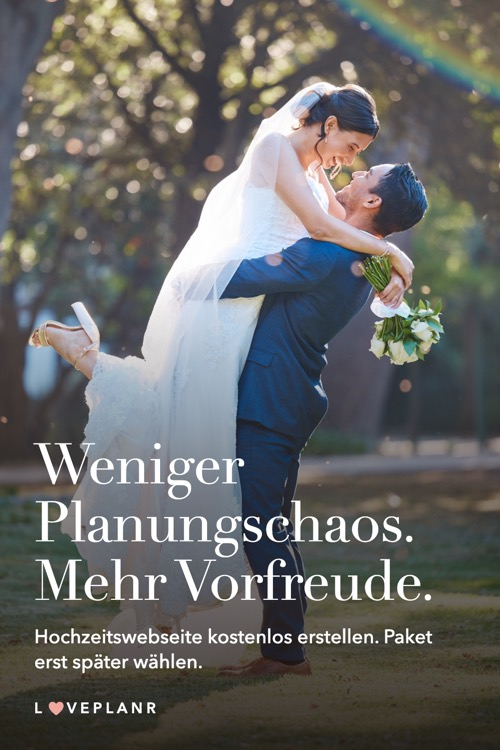
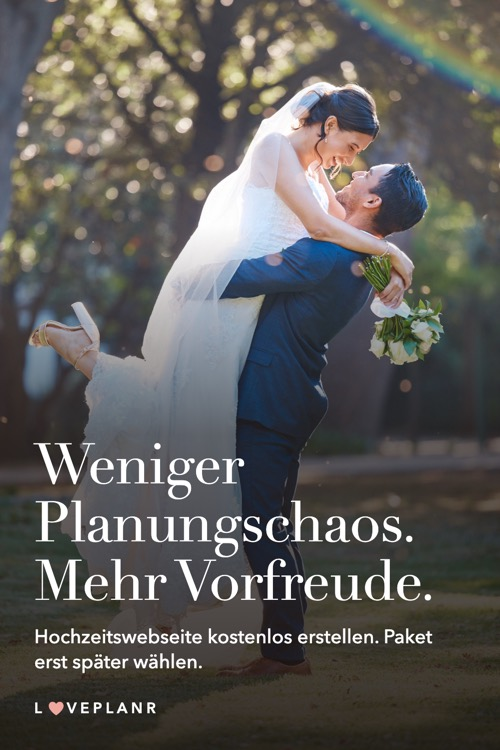
Add real couple quotes from loveplanr.com to hub pins
Prompt: «ass sie ohne Kundenaussage funktionieren und mit de, du darfst
auch kundenaussagen daraufpacken.»

Geändert:
- Pins 04 bis 06: echte Zitate wörtlich von loveplanr.com mit Paarnamen,
  Fotos als «Symbolbild» markiert, Ziele passend zum Zitat
- Website: Zitate in Bereich 8 mit Quelle, Texte zu Boards und Kalender,
  Freigabe für Pinterest als offener Punkt
- docs: Prompt-Log, AI-Fehler Nr. 9, Quellen

Changed region(s): [[0.0, 0.3373, 0.6, 0.8587], [0.54, 0.3373, 1.0, 0.7667], [0.81, 0.7973, 1.0, 0.828]]

diff --git a/index.html b/index.html
@@ -154,9 +154,9 @@
         <img class="b-img" src="assets/img/blueten.jpg" width="900" height="600" loading="lazy" alt="Stock-Foto: Lachendes Brautpaar im Regen aus roten und weissen Blütenblättern.">
         <p class="tag">Hub · Echte Geschichten</p>
         <h3>Echte Hochzeiten mit Loveplanr</h3>
-        <p>Der Beweis. Das Board startet mit Pins, die nichts über Kunden behaupten. Sobald echtes Material und Einwilligungen vorliegen, ersetzen Paar-Geschichten, Creatorinnen und Fachleute diese Startfassung.</p>
+        <p>Der Beweis: echte Aussagen von Paaren. Die Zitate stammen wörtlich von loveplanr.com, die Fotos sind als Symbolbild markiert. Längere Paar-Geschichten, Creatorinnen und Fachleute kommen dazu, sobald Material und Einwilligungen vorliegen.</p>
         <p class="pass"><strong>4 Pins:</strong> 04 bis 07</p>
-        <p class="pass"><strong>Stand:</strong> Startfassung</p>
+        <p class="pass"><strong>Stand:</strong> gestaltet, Freigabe der Zitate offen</p>
       </article>
       <article class="board b-help">
         <img class="b-img" src="assets/img/strauss.jpg" width="900" height="600" loading="lazy" alt="Stock-Foto: Braut hält einen weissen Strauss in den Händen.">
@@ -173,7 +173,7 @@
 <section class="sec tint" id="pins">
   <div class="wrap">
     <header class="head"><span class="no">4</span><div><p class="eyebrow">Pin-Set</p><h2>Zwölf Pins im Format 1000 × 1500 Pixel</h2></div></header>
-    <p class="intro">Jeder Pin hat Titel, Beschreibung, Keywords und ein Ziel. Alle sind gestaltet. Die vier Hub-Pins sind Startfassungen: Sie behaupten nichts über Kunden, denn Stock-Fotos zeigen bei uns nie angebliche Kundenpaare. Echtes Material ersetzt sie später. Pin 08 wartet auf seine Zielseite. <a href="assets/pins/pin-set.csv">Alle Pins als CSV</a> (mit UTM-Links).</p>
+    <p class="intro">Jeder Pin hat Titel, Beschreibung, Keywords und ein Ziel. Alle sind gestaltet. Die Hub-Pins tragen echte Aussagen von Paaren, wörtlich von loveplanr.com. Da die Stock-Fotos nicht diese Paare zeigen, steht auf dem Bild «Symbolbild». Pin 08 wartet auf seine Zielseite. <a href="assets/pins/pin-set.csv">Alle Pins als CSV</a> (mit UTM-Links).</p>
     <div class="wall">
       <input type="radio" name="f" id="f-all" checked><label for="f-all">Alle 12</label>
       <input type="radio" name="f" id="f-hero"><label for="f-hero">Hero 3</label>
@@ -212,35 +212,33 @@
 </details>
 </article>
 <article class="pin hub-p">
-<a class="bild" href="assets/pins/04-eure-seite.jpg" aria-label="Pin 04 in voller Grösse"><img src="assets/pins/04-eure-seite-500.jpg" width="500" height="750" loading="lazy" alt="Pin 04: Eure Bilder. Eure Worte. Eure Seite. Inhalte, Bilder und Design passt ihr an eure Hochzeit an."></a>
-<p class="pin-tag"><span>04 · Hub</span><span class="warn">Startfassung</span></p>
-<h3>Hochzeitswebseite persönlich gestalten: eure Bilder, eure Worte</h3>
+<a class="bild" href="assets/pins/04-melek-rafael.jpg" aria-label="Pin 04 in voller Grösse"><img src="assets/pins/04-melek-rafael-500.jpg" width="500" height="750" loading="lazy" alt="Pin 04: «Besonders praktisch war, dass wir unsere Gäste nicht nochmals für den Sitzplan erfassen mussten.» Melek &amp; Rafael, auf loveplanr.com"></a>
+<p class="pin-tag"><span>04 · Hub</span><span class="warn">Freigabe offen</span></p>
+<h3>Sitzplan Hochzeit: Gäste nicht nochmals erfassen, sagen Melek &amp; Rafael</h3>
 <details><summary>Beschreibung und Keywords</summary>
-<p>Wählt ein Design, ergänzt eure eigenen Bilder und Inhalte und passt die Farben an. So wird die Hochzeitswebseite zu eurer Seite. Kostenlos ausprobieren.</p>
-<p><strong>Keywords:</strong> Hochzeit Schweiz, Hochzeitswebseite gestalten, Hochzeit Ideen</p>
-<p><strong>Prinzip:</strong> Social Proof (mit echtem Paar)</p>
-<p><strong>Später:</strong> Geschichte eines echten Paars mit dessen Fotos und Einwilligung</p>
+<p>«Besonders praktisch war, dass wir unsere Gäste nicht nochmals für den Sitzplan erfassen mussten.» Melek &amp; Rafael über Loveplanr. Eure Gästeliste fliesst direkt in den Sitzplan.</p>
+<p><strong>Keywords:</strong> Sitzplan Hochzeit, Hochzeitsplanung Erfahrungen, Hochzeit Schweiz</p>
+<p><strong>Prinzip:</strong> Social Proof</p>
 </details>
 </article>
 <article class="pin hub-p">
-<a class="bild" href="assets/pins/05-so-kann-es-aussehen.jpg" aria-label="Pin 05 in voller Grösse"><img src="assets/pins/05-so-kann-es-aussehen-500.jpg" width="500" height="750" loading="lazy" alt="Pin 05: So kann eure Hochzeitsseite aussehen. Designs ansehen und das passende wählen."></a>
-<p class="pin-tag"><span>05 · Hub</span><span class="warn">Startfassung</span></p>
-<h3>Hochzeitswebseite Beispiele: Designs zum Anklicken</h3>
+<a class="bild" href="assets/pins/05-aline-josia.jpg" aria-label="Pin 05 in voller Grösse"><img src="assets/pins/05-aline-josia-500.jpg" width="500" height="750" loading="lazy" alt="Pin 05: «Die Webseite war super schnell erstellt und unsere Gäste hatten alle wichtigen Informationen an einem Ort.» Aline &amp; Josia, auf loveplanr.com"></a>
+<p class="pin-tag"><span>05 · Hub</span><span class="warn">Freigabe offen</span></p>
+<h3>Hochzeitswebseite schnell erstellt: die Erfahrung von Aline &amp; Josia</h3>
 <details><summary>Beschreibung und Keywords</summary>
-<p>Von natürlich bis modern: Schaut euch Beispiele an und entdeckt, wie eure eigene Hochzeitswebseite aussehen könnte.</p>
-<p><strong>Keywords:</strong> Hochzeitswebseite Beispiele, Hochzeitshomepage Inspiration</p>
-<p><strong>Prinzip:</strong> Social Proof (mit echtem Paar)</p>
-<p><strong>Später:</strong> Screenshot einer echten Seite mit dem Hinweis «Erstellt mit Loveplanr»</p>
+<p>«Die Webseite war super schnell erstellt und unsere Gäste hatten alle wichtigen Informationen an einem Ort.» Aline &amp; Josia über Loveplanr. Designs ansehen und kostenlos starten.</p>
+<p><strong>Keywords:</strong> Hochzeitswebseite erstellen, Hochzeitswebseite Beispiele, Hochzeitshomepage Inspiration</p>
+<p><strong>Prinzip:</strong> Social Proof</p>
 </details>
 </article>
 <article class="pin hub-p">
-<a class="bild" href="assets/pins/06-feierabend.jpg" aria-label="Pin 06 in voller Grösse"><img src="assets/pins/06-feierabend-500.jpg" width="500" height="750" loading="lazy" alt="Pin 06: Feierabend statt Excel-Abend. Webseite, Gäste und Rückmeldungen an einem Ort."></a>
+<a class="bild" href="assets/pins/06-feierabend.jpg" aria-label="Pin 06 in voller Grösse"><img src="assets/pins/06-feierabend-500.jpg" width="500" height="750" loading="lazy" alt="Pin 06: Feierabend statt Excel-Abend. «Wir hatten Gästeliste, Sitzplan und Einladungen endlich an einem Ort.» Sabine &amp; Markus, auf loveplanr.com"></a>
 <p class="pin-tag"><span>06 · Hub</span><span class="warn">Startfassung</span></p>
 <h3>Hochzeit planen ohne Excel: Webseite und Gäste an einem Ort</h3>
 <details><summary>Beschreibung und Keywords</summary>
-<p>Webseite, Gästeliste und Rückmeldungen liegen an einem Ort. So bleibt nach der Arbeit mehr Zeit für alles andere als für Tabellen.</p>
+<p>«Wir hatten Gästeliste, Sitzplan und Einladungen endlich an einem Ort.» Sabine &amp; Markus über Loveplanr. So bleibt nach der Arbeit mehr Zeit für alles andere als für Tabellen.</p>
 <p><strong>Keywords:</strong> Hochzeit planen, Hochzeitsvorbereitung, Hochzeitsplanung Tools</p>
-<p><strong>Prinzip:</strong> Liking (mit Creatorin)</p>
+<p><strong>Prinzip:</strong> Social Proof, später Liking (mit Creatorin)</p>
 <p><strong>Später:</strong> Video-Pin einer Micro-Creatorin aus der Deutschschweiz, als Partnerschaft gekennzeichnet</p>
 </details>
 </article>
@@ -342,7 +340,7 @@
 <section class="sec tint" id="kalender">
   <div class="wrap">
     <header class="head"><span class="no">6</span><div><p class="eyebrow">Content-Kalender</p><h2>Acht Wochen: erst helfen, dann lancieren, dann testen</h2></div></header>
-    <p class="intro">Woche 1 beginnt, sobald die Gründer den Start festlegen. Die Hub-Pins starten als Startfassung, Paar-Geschichten und Empfehlungen ersetzen sie, sobald echtes Material vorliegt.</p>
+    <p class="intro">Woche 1 beginnt, sobald die Gründer den Start festlegen. Paar-Geschichten und Empfehlungen ergänzen die Hub-Pins, sobald echtes Material vorliegt.</p>
     <table class="tbl cal">
       <thead><tr><th scope="col">Woche</th><th scope="col">Pins</th><th scope="col">Aufgabe</th><th scope="col">Danach prüfen</th></tr></thead>
       <tbody>
@@ -350,8 +348,8 @@
         <tr><th scope="row">2</th><td data-l="Pins">11 Sitzplan · 12 Onkel Peter</td><td data-l="Aufgabe">Help-Board vervollständigen</td><td data-l="Prüfen">Erste Impressions pro Keyword-Gruppe</td></tr>
         <tr><th scope="row">3</th><td data-l="Pins">01 Einmal Ja · 02 Einmal reicht</td><td data-l="Aufgabe">Launch der Kampagnenidee</td><td data-l="Prüfen">Saves und Klicks gegenüber Help-Pins</td></tr>
         <tr><th scope="row">4</th><td data-l="Pins">03 Mehr Vorfreude</td><td data-l="Aufgabe">Direkter Weg zur kostenlosen Anmeldung</td><td data-l="Prüfen">Basiswerte festhalten, Ziele mit den Gründern setzen</td></tr>
-        <tr class="hi"><th scope="row">5</th><td data-l="Pins">08 Checkliste · 04 Eure Seite</td><td data-l="Aufgabe">Start Promoted-Test, Checklisten-Zielseite live</td><td data-l="Prüfen">Erste Anmeldungen, Ausgaben pro Variante</td></tr>
-        <tr class="hi"><th scope="row">6</th><td data-l="Pins">05 So kann es aussehen</td><td data-l="Aufgabe">Promoted-Test läuft weiter</td><td data-l="Prüfen">Testende, Kosten pro Klick je Variante</td></tr>
+        <tr class="hi"><th scope="row">5</th><td data-l="Pins">08 Checkliste · 04 Melek &amp; Rafael</td><td data-l="Aufgabe">Start Promoted-Test, Checklisten-Zielseite live</td><td data-l="Prüfen">Erste Anmeldungen, Ausgaben pro Variante</td></tr>
+        <tr class="hi"><th scope="row">6</th><td data-l="Pins">05 Aline &amp; Josia</td><td data-l="Aufgabe">Promoted-Test läuft weiter</td><td data-l="Prüfen">Testende, Kosten pro Klick je Variante</td></tr>
         <tr><th scope="row">7</th><td data-l="Pins">06 Feierabend · 07 Partner</td><td data-l="Aufgabe">Creatorin und Hochzeitsplanerin für die echte Fassung anfragen</td><td data-l="Prüfen">Welche Hub-Themen werden gespeichert?</td></tr>
         <tr><th scope="row">8</th><td data-l="Pins">Beste Pins neu gestaltet</td><td data-l="Aufgabe">Auswertung, gute Pins für Instagram wiederverwenden</td><td data-l="Prüfen">Was bleibt, was fällt weg, wie weiter?</td></tr>
       </tbody>
@@ -398,8 +396,8 @@
 <tr><th scope="row">01 Einmal Ja. Einmal zahlen.</th><td data-l="Ziel"><a href="https://loveplanr.com/preise/">/preise/</a></td><td data-l="Danach">Pakete vergleichen, dann kostenlos starten</td><td data-l="Stand" class="state">Bereit</td></tr>
 <tr><th scope="row">02 Einmal reicht.</th><td data-l="Ziel"><a href="https://loveplanr.com/komplettpaket/">/komplettpaket/</a></td><td data-l="Danach">Komplettpaket verstehen, dann kostenlos starten</td><td data-l="Stand" class="state">Bereit</td></tr>
 <tr><th scope="row">03 Weniger Planungschaos. Mehr Vorfreude.</th><td data-l="Ziel"><a href="https://app.loveplanr.com/de/sign-up">app.loveplanr.com/de/sign-up</a></td><td data-l="Danach">Konto erstellen und die Seite kostenlos bauen</td><td data-l="Stand" class="state">Bereit</td></tr>
-<tr><th scope="row">04 Eure Bilder. Eure Worte. Eure Seite.</th><td data-l="Ziel"><a href="https://loveplanr.com/hochzeitswebsite-beispiele/">/hochzeitswebsite-beispiele/</a></td><td data-l="Danach">Design-Beispiele ansehen, dann kostenlos starten</td><td data-l="Stand" class="state">Startfassung</td></tr>
-<tr><th scope="row">05 So kann eure Hochzeitsseite aussehen.</th><td data-l="Ziel"><a href="https://loveplanr.com/hochzeitswebsite-beispiele/">/hochzeitswebsite-beispiele/</a></td><td data-l="Danach">Design wählen, dann kostenlos starten</td><td data-l="Stand" class="state">Startfassung</td></tr>
+<tr><th scope="row">04 «Besonders praktisch war, dass wir unsere Gäste nicht nochmals für den Sitzplan erfassen mussten.»</th><td data-l="Ziel"><a href="https://loveplanr.com/sitzplan/">/sitzplan/</a></td><td data-l="Danach">Sitzplan verstehen, Komplettpaket prüfen</td><td data-l="Stand" class="state"><span class="state-p">Zitat: Freigabe offen</span></td></tr>
+<tr><th scope="row">05 «Die Webseite war super schnell erstellt und unsere Gäste hatten alle wichtigen Informationen an einem Ort.»</th><td data-l="Ziel"><a href="https://loveplanr.com/hochzeitswebsite/">/hochzeitswebsite/</a></td><td data-l="Danach">Funktionen ansehen, dann kostenlos starten</td><td data-l="Stand" class="state"><span class="state-p">Zitat: Freigabe offen</span></td></tr>
 <tr><th scope="row">06 Feierabend statt Excel-Abend.</th><td data-l="Ziel"><a href="https://loveplanr.com/hochzeitswebsite/">/hochzeitswebsite/</a></td><td data-l="Danach">Funktionen ansehen, dann kostenlos starten</td><td data-l="Stand" class="state">Startfassung</td></tr>
 <tr><th scope="row">07 Gute Partner für euren grossen Tag</th><td data-l="Ziel"><a href="https://loveplanr.com/partner/">/partner/</a></td><td data-l="Danach">Partner ansehen, Vertrauen aufbauen</td><td data-l="Stand" class="state">Startfassung</td></tr>
 <tr><th scope="row">08 Gratis Hochzeits-Checkliste</th><td data-l="Ziel"><a href="https://loveplanr.com/hochzeitscheckliste/">/hochzeitscheckliste/</a></td><td data-l="Danach">E-Mail-Adresse angeben, Checkliste erhalten</td><td data-l="Stand" class="state"><span class="state-p">Vorschlag: neue Zielseite</span></td></tr>
@@ -424,9 +422,16 @@
     <div class="prinz">
       <article><img src="assets/pins/08-gratis-checkliste-500.jpg" width="500" height="750" loading="lazy" alt="Pin 08: Gratis Hochzeits-Checkliste."><div><h3>Reciprocity</h3><p>Paare bekommen zuerst etwas Nützliches und geben danach ihre E-Mail-Adresse.</p><p class="wo">Pin 08, neue Zielseite als Vorschlag</p></div></article>
       <article><img src="assets/pins/03-mehr-vorfreude-500.jpg" width="500" height="750" loading="lazy" alt="Pin 03: Weniger Planungschaos. Mehr Vorfreude."><div><h3>Commitment &amp; Consistency</h3><p>Wer die eigene Seite schon gebaut hat, bleibt eher dabei. Darum zuerst kostenlos erstellen und testen, das Paket erst später wählen.</p><p class="wo">Pin 03, Wortlaut von Loveplanr</p></div></article>
-      <article><img src="assets/pins/05-so-kann-es-aussehen-500.jpg" width="500" height="750" loading="lazy" alt="Pin 05: So kann eure Hochzeitsseite aussehen."><div><h3>Social Proof</h3><p>Paare orientieren sich an anderen Paaren. Das wirkt nur mit echten Geschichten und dem Hinweis «Erstellt mit Loveplanr». Bis dahin zeigen die Pins Designs, ohne Kunden zu behaupten.</p><p class="wo">Pins 04 und 05, Startfassung</p></div></article>
+      <article><img src="assets/pins/04-melek-rafael-500.jpg" width="500" height="750" loading="lazy" alt="Pin 04: Zitat von Melek und Rafael, mit Symbolbild."><div><h3>Social Proof</h3><p>Paare orientieren sich an anderen Paaren. Darum stehen echte Aussagen auf den Pins. Später kommen ganze Geschichten mit dem Hinweis «Erstellt mit Loveplanr» dazu.</p><p class="wo">Pins 04, 05 und 06, Zitate von loveplanr.com</p></div></article>
       <article><img src="assets/pins/07-partner-500.jpg" width="500" height="750" loading="lazy" alt="Pin 07: Gute Partner für euren grossen Tag."><div><h3>Authority</h3><p>Das Urteil einer Hochzeitsplanerin oder eines Hochzeitsmagazins wiegt mehr als eigene Werbung. Bis zur ersten Zusage verweist der Pin auf die Partner von Loveplanr.</p><p class="wo">Pin 07, Startfassung</p></div></article>
       <article><img src="assets/pins/06-feierabend-500.jpg" width="500" height="750" loading="lazy" alt="Pin 06: Feierabend statt Excel-Abend."><div><h3>Liking</h3><p>Eine Micro- oder Nano-Creatorin aus der Deutschschweiz zeigt die eigene Planung im Video-Pin, als bezahlte Partnerschaft gekennzeichnet. Bis dahin trägt ein Motiv mit Augenzwinkern den Pin.</p><p class="wo">Pin 06, Startfassung</p></div></article>
+    </div>
+    <div class="stimmen">
+      <h3>Die Aussagen auf den Pins</h3>
+      <blockquote><p>«Besonders praktisch war, dass wir unsere Gäste nicht nochmals für den Sitzplan erfassen mussten.»</p><footer>Melek &amp; Rafael</footer></blockquote>
+      <blockquote><p>«Die Webseite war super schnell erstellt und unsere Gäste hatten alle wichtigen Informationen an einem Ort.»</p><footer>Aline &amp; Josia</footer></blockquote>
+      <blockquote><p>«Wir hatten Gästeliste, Sitzplan und Einladungen endlich an einem Ort.»</p><footer>Sabine &amp; Markus</footer></blockquote>
+      <p class="quelle">Wörtlich von <a href="https://loveplanr.com/">loveplanr.com</a>, abgerufen am 05.11.2026. Nicht von uns erhoben. Die Fotos auf den Pins zeigen nicht diese Paare.</p>
     </div>
     <div class="nein">
       <article><h3><s>Scarcity</s></h3><p>Pins leben über Monate. «Nur noch heute» wäre bald falsch und passt nicht zu einem festen Einmalpreis.</p></article>
@@ -449,10 +454,10 @@
     </div>
     <h3>Offen für die Gründer</h3>
     <ul class="offen">
-      <li>Echte Paar-Geschichten, Screenshots und Einwilligungen für die Hub-Pins</li>
+      <li>Längere Paar-Geschichten, Screenshots und Einwilligungen für weitere Hub-Pins</li>
       <li>Originallogo und exakte Farbwerte</li>
       <li>Bestätigung der Preise in CHF und der Aussage zu Rückmeldungen ohne Konto</li>
-      <li>Ob «10'000+ Hochzeitspaare» und die Paarzitate übernommen werden dürfen</li>
+      <li>Ob die Paarzitate auch auf Pinterest erscheinen dürfen, und ob «10'000+ Hochzeitspaare» übernommen wird</li>
       <li>Zielseite für die Gratis-Checkliste</li>
       <li>Startdatum, Budget für den Test und Weitergabe der UTM-Werte bis zum Kauf</li>
     </ul>
@@ -464,7 +469,7 @@
 <footer class="foot">
   <div class="wrap">
     <p><strong>Studentisches Projekt.</strong> Kurs «Digital Marketing for Start-ups», ZHAW, HS 2026, Team 4. Kein offizieller Auftritt von Loveplanr.</p>
-    <p>Fotos: Stock-Motive, über Envato lizenziert. Sie zeigen keine Kundenpaare. Die Wortmarke auf den Pins ist eine Rekonstruktion, bis das Originallogo vorliegt. Laura, Marco und Peter sind fiktive Personas. Produktangaben von <a href="https://loveplanr.com">loveplanr.com</a>, geprüft am 05.11.2026.</p>
+    <p>Fotos: Stock-Motive, über Envato lizenziert. Sie zeigen keine Kundenpaare, auch nicht auf den Pins mit Zitaten. Die Wortmarke auf den Pins ist eine Rekonstruktion, bis das Originallogo vorliegt. Laura, Marco und Peter sind fiktive Personas. Produktangaben von <a href="https://loveplanr.com">loveplanr.com</a>, geprüft am 05.11.2026.</p>
   </div>
 </footer>
 </body>

diff --git a/assets/site.css b/assets/site.css
@@ -152,6 +152,12 @@ code{font-size:.85em;background:var(--sand);padding:.1em .3em;overflow-wrap:anyw
 .prinz h3{font-size:1.5rem}
 .prinz p{font-size:.97rem;margin-bottom:.6rem}
 .wo{font-weight:600;font-size:.86rem!important;color:var(--rose-d);margin:0!important}
+.stimmen{display:grid;grid-template-columns:repeat(3,1fr);gap:1.2rem;margin-top:clamp(2rem,4vw,3rem)}
+.stimmen h3,.stimmen .quelle{grid-column:1/-1;margin:0}
+.stimmen .quelle{font-size:.9rem;color:var(--muted)}
+.stimmen blockquote{margin:0;padding:1.3rem;background:var(--ink);color:var(--paper)}
+.stimmen blockquote p{font:400 1.32rem/1.28 var(--serif);margin-bottom:.8rem}
+.stimmen footer{font-size:.9rem;font-weight:600;color:#f0a79e}
 .nein{display:grid;grid-template-columns:1fr 1fr;gap:1.2rem;margin-top:1.2rem}
 .nein article{padding:1.2rem 1.3rem;border:1.5px dashed var(--muted)}
 .nein s{text-decoration-color:var(--rose-d);text-decoration-thickness:2px}
@@ -193,7 +199,7 @@ code{font-size:.85em;background:var(--sand);padding:.1em .3em;overflow-wrap:anyw
   .hero{min-height:min(88svh,740px);justify-content:flex-end}
   .hero>img{height:66%;object-position:54% 15%}
   .hero::after{background:linear-gradient(0deg,#262626 40%,rgba(38,38,38,.75) 52%,rgba(38,38,38,0) 66%)}
-  .trio,.cols,.personas,.notes,.nein,.test{grid-template-columns:1fr}
+  .trio,.cols,.personas,.notes,.nein,.test,.stimmen{grid-template-columns:1fr}
   .test .plain,.offen{columns:1}
   .fenster{font-size:.88rem;padding:.35rem .6rem}
   .pins{grid-template-columns:1fr 1fr;gap:1.1rem .8rem}

diff --git a/tools/pins_data.py b/tools/pins_data.py
@@ -17,21 +17,21 @@ PINS = [
   title="Hochzeitswebseite kostenlos erstellen, Paket erst später wählen",
   desc="Startet mit eurer Hochzeitswebseite und testet alle Funktionen in Ruhe. Erst wenn ihr bereit seid, wählt ihr das passende Paket. Einmalig bezahlt, ohne Abo.",
   kw="Hochzeitswebseite erstellen, Hochzeitshomepage, Hochzeit Ideen", path="https://app.loveplanr.com/de/sign-up", principle="Commitment & Consistency", status=""),
- dict(id="04-eure-seite", board="Hub", layout="photo", photo="happy-couple-celebrate-wedding-with-red-white-pet-2026-09-25-08-44-30-utc.jpg", pos="34% 50%", place="bottom",
-  head="Eure Bilder.<br>Eure Worte.<br>Eure Seite.", sub="Inhalte, Bilder und Design passt ihr an eure Hochzeit an.",
-  title="Hochzeitswebseite persönlich gestalten: eure Bilder, eure Worte",
-  desc="Wählt ein Design, ergänzt eure eigenen Bilder und Inhalte und passt die Farben an. So wird die Hochzeitswebseite zu eurer Seite. Kostenlos ausprobieren.",
-  kw="Hochzeit Schweiz, Hochzeitswebseite gestalten, Hochzeit Ideen", path="/hochzeitswebsite-beispiele/", principle="Social Proof (mit echtem Paar)", status="Startfassung: echtes Material ersetzt sie später", later="Geschichte eines echten Paars mit dessen Fotos und Einwilligung"),
- dict(id="05-so-kann-es-aussehen", board="Hub", layout="photo", photo="happy-couple-at-wedding-ceremony-in-outdoor-settin-2026-09-23-04-01-19-utc.jpg", pos="50% 30%", place="bottom",
-  head="So kann eure Hochzeitsseite aussehen.", sub="Designs ansehen und das passende wählen.",
-  title="Hochzeitswebseite Beispiele: Designs zum Anklicken",
-  desc="Von natürlich bis modern: Schaut euch Beispiele an und entdeckt, wie eure eigene Hochzeitswebseite aussehen könnte.",
-  kw="Hochzeitswebseite Beispiele, Hochzeitshomepage Inspiration", path="/hochzeitswebsite-beispiele/", principle="Social Proof (mit echtem Paar)", status="Startfassung: echtes Material ersetzt sie später", later="Screenshot einer echten Seite mit dem Hinweis «Erstellt mit Loveplanr»"),
- dict(id="06-feierabend", board="Hub", layout="photo", photo="bride-and-groom-posing-with-luggage-cart-2026-09-24-04-02-31-utc.jpg", pos="72% 50%", place="bottom",
-  head="Feierabend statt Excel-Abend.", sub="Webseite, Gäste und Rückmeldungen an einem Ort.",
+ dict(id="04-melek-rafael", board="Hub", layout="photo", photo="happy-couple-celebrate-wedding-with-red-white-pet-2026-09-25-08-44-30-utc.jpg", pos="34% 50%", place="bottom", symbol=True, hsize=70,
+  head="«Besonders praktisch war, dass wir unsere Gäste nicht nochmals für den Sitzplan erfassen mussten.»", sub="Melek & Rafael, auf loveplanr.com",
+  title="Sitzplan Hochzeit: Gäste nicht nochmals erfassen, sagen Melek & Rafael",
+  desc="«Besonders praktisch war, dass wir unsere Gäste nicht nochmals für den Sitzplan erfassen mussten.» Melek & Rafael über Loveplanr. Eure Gästeliste fliesst direkt in den Sitzplan.",
+  kw="Sitzplan Hochzeit, Hochzeitsplanung Erfahrungen, Hochzeit Schweiz", path="/sitzplan/", principle="Social Proof", status="Freigabe offen: Zitat von loveplanr.com für Pinterest bestätigen"),
+ dict(id="05-aline-josia", board="Hub", layout="photo", photo="happy-couple-at-wedding-ceremony-in-outdoor-settin-2026-09-23-04-01-19-utc.jpg", pos="50% 30%", place="bottom", symbol=True, hsize=70,
+  head="«Die Webseite war super schnell erstellt und unsere Gäste hatten alle wichtigen Informationen an einem Ort.»", sub="Aline & Josia, auf loveplanr.com",
+  title="Hochzeitswebseite schnell erstellt: die Erfahrung von Aline & Josia",
+  desc="«Die Webseite war super schnell erstellt und unsere Gäste hatten alle wichtigen Informationen an einem Ort.» Aline & Josia über Loveplanr. Designs ansehen und kostenlos starten.",
+  kw="Hochzeitswebseite erstellen, Hochzeitswebseite Beispiele, Hochzeitshomepage Inspiration", path="/hochzeitswebsite/", principle="Social Proof", status="Freigabe offen: Zitat von loveplanr.com für Pinterest bestätigen"),
+ dict(id="06-feierabend", board="Hub", layout="photo", photo="bride-and-groom-posing-with-luggage-cart-2026-09-24-04-02-31-utc.jpg", pos="72% 50%", place="bottom", symbol=True,
+  head="Feierabend statt Excel-Abend.", sub="«Wir hatten Gästeliste, Sitzplan und Einladungen endlich an einem Ort.»<br>Sabine & Markus, auf loveplanr.com",
   title="Hochzeit planen ohne Excel: Webseite und Gäste an einem Ort",
-  desc="Webseite, Gästeliste und Rückmeldungen liegen an einem Ort. So bleibt nach der Arbeit mehr Zeit für alles andere als für Tabellen.",
-  kw="Hochzeit planen, Hochzeitsvorbereitung, Hochzeitsplanung Tools", path="/hochzeitswebsite/", principle="Liking (mit Creatorin)", status="Startfassung: echtes Material ersetzt sie später", later="Video-Pin einer Micro-Creatorin aus der Deutschschweiz, als Partnerschaft gekennzeichnet"),
+  desc="«Wir hatten Gästeliste, Sitzplan und Einladungen endlich an einem Ort.» Sabine & Markus über Loveplanr. So bleibt nach der Arbeit mehr Zeit für alles andere als für Tabellen.",
+  kw="Hochzeit planen, Hochzeitsvorbereitung, Hochzeitsplanung Tools", path="/hochzeitswebsite/", principle="Social Proof, später Liking (mit Creatorin)", status="Startfassung: echtes Material ersetzt sie später", later="Video-Pin einer Micro-Creatorin aus der Deutschschweiz, als Partnerschaft gekennzeichnet"),
  dict(id="07-partner", board="Hub", layout="split", photo="elegant-wedding-day-for-groom-and-bride-2026-09-23-11-00-18-utc.jpg", pos="50% 50%", color="sand",
   head="Gute Partner für euren grossen Tag", sub="Ausgewählte Dienstleister, von Karten bis Location.",
   title="Hochzeit Dienstleister: ausgewählte Partner für euren grossen Tag",

diff --git a/tools/make_pins.py b/tools/make_pins.py
@@ -16,7 +16,7 @@ h1{font-family:Didot,"Bodoni 72",Georgia,serif;font-weight:400;line-height:1.04;
 .sub{font-size:39px;line-height:1.28;font-weight:500}
 img.bg{position:absolute;inset:0;width:100%;height:100%;object-fit:cover}
 .photo .shade{position:absolute;inset:0}.photo.top .shade{background:linear-gradient(180deg,rgba(25,18,16,.68),rgba(25,18,16,.12) 52%,rgba(25,18,16,.5))}
-.photo.bottom .shade{background:linear-gradient(0deg,rgba(25,18,16,.86),rgba(25,18,16,.5) 34%,rgba(25,18,16,0) 62%)}
+.photo.bottom .shade{background:linear-gradient(0deg,rgba(25,18,16,.88),rgba(25,18,16,.62) 42%,rgba(25,18,16,0) 70%)}
 .photo .txt{position:absolute;left:68px;right:68px;color:#fff}.photo.top .txt{top:90px}.photo.bottom .txt{bottom:150px}
 .photo h1{font-size:112px;margin-bottom:28px}.photo .logo{position:absolute;left:68px;bottom:62px;color:#fff}.photo .h{color:#f0a79e}
 .split .pic{position:absolute;inset:0 0 auto 0;height:840px;overflow:hidden}.split .pic img{width:100%;height:100%;object-fit:cover;display:block}
@@ -26,13 +26,16 @@ img.bg{position:absolute;inset:0;width:100%;height:100%;object-fit:cover}
 .list .block{position:absolute;inset:430px 0 0 0;padding:56px 68px;background:#fff6f3}.list h1{font-size:84px;margin-bottom:38px}
 .list ol{list-style:none;padding:0}.list li{font-size:42px;font-weight:500;display:flex;align-items:center;gap:30px;padding:17px 0;border-top:2px solid #e8d8d2}
 .list b{font:400 58px Didot,Georgia,serif;color:#db7f74;width:48px}.list .logo{position:absolute;left:68px;bottom:50px}
+.sym{position:absolute;top:36px;right:36px;font-size:24px;font-weight:600;letter-spacing:.04em;color:#fff;background:rgba(25,18,16,.6);padding:7px 14px}
 .stamp{position:absolute;right:68px;bottom:44px;width:128px;height:128px;border-radius:50%;display:flex;align-items:center;justify-content:center;font:400 68px Didot,Georgia,serif;background:#fff6f3;color:#262626;box-shadow:0 0 0 3px #fff6f3,0 0 0 6px #db7f74}
 """
 def stamp(p): return '<div class="stamp">1×</div>' if p.get("stamp") else ""
+def sym(p): return '<div class="sym">Symbolbild</div>' if p.get("symbol") else ""
+def hs(p): return f' style="font-size:{p["hsize"]}px;line-height:1.14"' if p.get("hsize") else ""
 def body(p, photo):
     e = lambda s: s  # Inhalte stammen aus pins_data.py und enthalten bewusst <br>
     if p["layout"] == "photo":
-        return f'<body class="photo {p["place"]}"><img class="bg" src="{photo}" style="object-position:{p["pos"]}"><div class="shade"></div><div class="txt"><h1>{e(p["head"])}</h1><p class="sub">{e(p["sub"])}</p></div>{LOGO}{stamp(p)}</body>'
+        return f'<body class="photo {p["place"]}"><img class="bg" src="{photo}" style="object-position:{p["pos"]}"><div class="shade"></div><div class="txt"><h1{hs(p)}>{e(p["head"])}</h1><p class="sub">{e(p["sub"])}</p></div>{LOGO}{stamp(p)}{sym(p)}</body>'
     if p["layout"] == "split":
         return f'<body class="split {p["color"]}"><div class="pic"><img src="{photo}" style="object-position:{p["pos"]}"></div><div class="block"><h1>{e(p["head"])}</h1><p class="sub">{e(p["sub"])}</p>{LOGO}{stamp(p)}</div></body>'
     if p["layout"] == "list":

diff --git a/tools/build_site.py b/tools/build_site.py
@@ -11,8 +11,8 @@ NEXT = {
     "01-einmal-ja": "Pakete vergleichen, dann kostenlos starten",
     "02-einmal-reicht": "Komplettpaket verstehen, dann kostenlos starten",
     "03-mehr-vorfreude": "Konto erstellen und die Seite kostenlos bauen",
-    "04-eure-seite": "Design-Beispiele ansehen, dann kostenlos starten",
-    "05-so-kann-es-aussehen": "Design wählen, dann kostenlos starten",
+    "04-melek-rafael": "Sitzplan verstehen, Komplettpaket prüfen",
+    "05-aline-josia": "Funktionen ansehen, dann kostenlos starten",
     "06-feierabend": "Funktionen ansehen, dann kostenlos starten",
     "07-partner": "Partner ansehen, Vertrauen aufbauen",
     "08-gratis-checkliste": "E-Mail-Adresse angeben, Checkliste erhalten",
@@ -52,6 +52,7 @@ def row(p):
     u = url(p)
     shown = u.replace("https://", "").replace("loveplanr.com", "", 1) if not "app." in u else u.replace("https://", "")
     if p["status"].startswith("Startfassung"): state = "Startfassung"
+    elif p["status"].startswith("Freigabe"): state = '<span class="state-p">Zitat: Freigabe offen</span>'
     elif p["status"]: state = '<span class="state-p">Vorschlag: neue Zielseite</span>'
     else: state = "Bereit"
     return (f'<tr><th scope="row">{p["id"][:2]} {esc(plain(p["head"]))}</th>'

diff --git a/docs/prompt-log.md b/docs/prompt-log.md
@@ -35,12 +35,14 @@ Team selbst, ohne KI. Es gehört nicht zu diesem Log.
 
 | Nr. | Prompt | Was passierte | Commit |
 |---|---|---|---|
-| 20 | «gib den Startschuss, halte dich an alle Vorgaben wie besprochen und sei vor allem kreativ bei der Umsatzung. Alles muss dokumentiert werden.» | Kampagnenidee «Einmal reicht.» entwickelt, zwölf Pins als Daten, Generator und Bilder erstellt, erster Render. | dieser Commit |
+| 20 | «gib den Startschuss, halte dich an alle Vorgaben wie besprochen und sei vor allem kreativ bei der Umsatzung. Alles muss dokumentiert werden.» | Kampagnenidee «Einmal reicht.» entwickelt, zwölf Pins als Daten, Generator und Bilder erstellt, erster Render. | `eb50468` |
 | 21 | «Speichere den Stand unter "LOVE" ich werde jetzt den Laptop in den sleep modus umstellen und will das du in der zwischnzeit weiterarbeitest. Geht das?» | Stand gespeichert. Antwort: Im Ruhezustand läuft die Arbeit nicht weiter. | – |
 | 22 | «ich mache morgen weiter» | Keine Arbeit im Hintergrund. | – |
-| 23 | «let's go we are back» | Pins visuell geprüft und korrigiert, Website mit acht Bereichen gebaut, auf Desktop und Handy geprüft, Dokumentation geschrieben, veröffentlicht. | dieser Commit |
+| 23 | «let's go we are back» | Pins visuell geprüft und korrigiert, Website mit acht Bereichen gebaut, auf Desktop und Handy geprüft, Dokumentation geschrieben, veröffentlicht. | `eb50468` |
 
-| 24 | «[12 Fotos] Hier hat es noch mehr fotos, du hast zu viele Placeholder verwendet» | Die vier Hub-Pins neu geschrieben und mit den neuen Fotos gestaltet. Sie behaupten nichts über Kunden und laufen als Startfassung, bis echtes Material vorliegt. Pins 09 und 10 mit passenderen Fotos, neue Fotos auf der Website bei Boards, Personas und in einem Bildstreifen. | dieser Commit |
+| 24 | «[12 Fotos] Hier hat es noch mehr fotos, du hast zu viele Placeholder verwendet» | Die vier Hub-Pins neu geschrieben und mit den neuen Fotos gestaltet. Sie behaupten nichts über Kunden und laufen als Startfassung, bis echtes Material vorliegt. Pins 09 und 10 mit passenderen Fotos, neue Fotos auf der Website bei Boards, Personas und in einem Bildstreifen. | `d007ae1` |
+
+| 25 | «ass sie ohne Kundenaussage funktionieren und mit de, du darfst auch kundenaussagen daraufpacken.» (nimmt Bezug auf eine Zwischennachricht der KI) | Echte Zitate wörtlich von loveplanr.com geholt und auf die Pins 04, 05 und 06 gesetzt, Fotos dort als «Symbolbild» markiert. Die Zitate stehen auch im Bereich 8 der Website. | dieser Commit |
 
 Die Prompts 20 bis 23 gehören zur selben Iteration, weil der Bau über Nacht unterbrochen wurde. Darum gibt es dafür einen gemeinsamen Commit.
 
@@ -49,7 +51,7 @@ Die Prompts 20 bis 23 gehören zur selben Iteration, weil der Bau über Nacht un
 «Sei kreativ» legte die Idee nicht fest. Diese Entscheide traf die KI selbst. Das Team sollte sie prüfen:
 
 - Leitidee «Einmal reicht.» mit dem Motiv 1×, aus dem USP «einmaliger Preis» abgeleitet.
-- Hub-Pins waren zuerst sichtbare Platzhalter, damit Stock-Fotos nicht als Paargeschichten erscheinen. Der Nutzer korrigierte das mit Prompt 24: Sie sind nun gestaltete Startfassungen ohne Kundenaussage.
+- Hub-Pins waren zuerst sichtbare Platzhalter, damit Stock-Fotos nicht als Paargeschichten erscheinen. Der Nutzer korrigierte das mit Prompt 24: Sie sind nun gestaltet, die Pins 04 bis 06 tragen seit Prompt 25 echte Zitate.
 - Help-Pins erscheinen im Kalender vor den Hero-Pins.
 - Der Promoted-Test vergleicht Preis gegen Hilfe, mit einer Nachfrist von vier Wochen für den Kauf. Die Nachfrist ist ein Vorschlag, kein Erfahrungswert.
 - Die Geschichte «Ein Abend im Planungsfenster» ordnet die KPIs den Schritten eines fiktiven Paars zu.

diff --git a/docs/quellen-und-platzhalter.md b/docs/quellen-und-platzhalter.md
@@ -23,26 +23,33 @@
 - Zielwert Kosten pro Kunde ≤ 20–30 CHF (für die Website freigegeben). Weitere Zahlen aus dem Businessplan bleiben privat.
 - Die Schweiz als Werbemarkt stammt aus einer älteren Pinterest-Hilfeseite und ist im Ads Manager zu prüfen.
 
+## Zitate auf den Pins
+
+Alle Zitate stammen wörtlich von https://loveplanr.com/ und https://loveplanr.com/hochzeitswebsite/ (abgerufen am 05.11.2026). Der Nutzer hat ihre Verwendung freigegeben. Offen bleibt, ob die Gründer und die Paare auch dem Einsatz auf Pinterest zustimmen. Das ist vor dem Hochladen zu klären. Die Stock-Fotos zeigen nicht diese Paare und tragen darum den Hinweis «Symbolbild».
+
+| Pin | Zitat | Paar |
+|---|---|---|
+| 04 | «Besonders praktisch war, dass wir unsere Gäste nicht nochmals für den Sitzplan erfassen mussten.» | Melek & Rafael |
+| 05 | «Die Webseite war super schnell erstellt und unsere Gäste hatten alle wichtigen Informationen an einem Ort.» | Aline & Josia |
+| 06 | «Wir hatten Gästeliste, Sitzplan und Einladungen endlich an einem Ort.» | Sabine & Markus |
+
 ## Startfassungen und Vorschläge
 
-Es gibt keine leeren Platzhalter-Pins mehr. Die Hub-Pins sind Startfassungen: Sie zeigen Stock-Fotos und behaupten nichts über Kunden. Social Proof, Authority und Liking wirken aber erst mit dem echten Material in dieser Tabelle.
-
-| Element | Startfassung | Was sie später ersetzt | Von wem |
+| Element | Heute | Später | Von wem |
 |---|---|---|---|
-| Pin 04 | «Eure Bilder. Eure Worte. Eure Seite.» | Geschichte eines echten Paars, mit Einwilligung | Gründer |
-| Pin 05 | «So kann eure Hochzeitsseite aussehen.» | Screenshot einer echten Seite, «Erstellt mit Loveplanr» | Gründer |
-| Pin 06 | «Feierabend statt Excel-Abend.» | Video-Pin einer Creatorin, gekennzeichnet | Team, Gründer |
+| Pin 06 | Zitat und «Feierabend statt Excel-Abend.» | Video-Pin einer Creatorin, gekennzeichnet | Team, Gründer |
 | Pin 07 | «Gute Partner für euren grossen Tag» | Echte Empfehlung oder Magazin-Feature | Gründer |
 | Pin 08 | Gestaltet, wartet auf Zielseite | Download und Anmeldeformular auf neuer Zielseite | Gründer |
+| Weitere Hub-Pins | fehlen noch | Längere Paar-Geschichten, Screenshots mit «Erstellt mit Loveplanr» | Gründer |
 | Wortmarke auf den Pins | Rekonstruktion | Originallogo | Gründer |
 | Farben | Aus dem CSS von loveplanr.com gelesen | Bestätigung | Gründer |
 
 ## Was wir bewusst nicht zeigen
 
 - Suchvolumen und Benchmarks: keine belegten Zahlen vorhanden.
-- «10'000+ Hochzeitspaare» und Zitate von Paaren: stehen auf loveplanr.com, werden aber erst nach Bestätigung der Gründer übernommen.
+- «10'000+ Hochzeitspaare»: steht auf loveplanr.com, wird aber erst nach Bestätigung übernommen.
 - Budget, Kundenziel und Namen der Gründer.
 
 ## Fotos
 
-Stock-Motive, über Envato lizenziert. Originale liegen nur lokal, ins Repo kommen verkleinerte Versionen. Sie zeigen keine Kundenpaare, und kein Text auf den Pins behauptet das. Auf der Website gehören die Personas-Bilder zu fiktiven Personas.
+Stock-Motive, über Envato lizenziert. Originale liegen nur lokal, ins Repo kommen verkleinerte Versionen. Sie zeigen keine Kundenpaare. Pins mit Zitaten tragen den Hinweis «Symbolbild». Auf der Website gehören die Personas-Bilder zu fiktiven Personas.

diff --git a/docs/ai-fehler.md b/docs/ai-fehler.md
@@ -51,7 +51,7 @@ Die Masse und Textlängen der ersten Pins bestanden die automatische Prüfung. D
 ### 9. Zu viele Platzhalter
 - **Output:** Vier von zwölf Pins waren leere Rahmen mit Text wie «[Paar]» und «[Creatorin]». Die KI las die Regel «keine erfundenen Testimonials» so, dass ohne echtes Material gar kein gestalteter Pin möglich sei.
 - **Bemerkt:** Der Nutzer: «du hast zu viele Placeholder verwendet».
-- **Korrektur:** Die Regel betrifft die Aussage, nicht die Gestaltung. Die Pins zeigen nun Stock-Fotos mit Texten, die nichts über Kunden behaupten, zum Beispiel «So kann eure Hochzeitsseite aussehen». Echte Geschichten ersetzen sie später. Die Website sagt offen, dass Social Proof, Authority und Liking erst mit echtem Material wirken.
+- **Korrektur:** Die Regel betrifft die Aussage, nicht die Gestaltung. Die Pins zeigen nun Stock-Fotos mit Texten, die nichts über Kunden behaupten, zum Beispiel «So kann eure Hochzeitsseite aussehen». Echte Geschichten ersetzen sie später. Mit dem nächsten Prompt erlaubte der Nutzer Kundenaussagen. Die KI übernahm echte Zitate von loveplanr.com statt welche zu formulieren und markierte die Fotos als «Symbolbild», weil sie nicht diese Paare zeigen. Der erste Umbau zu Pins ohne Kundenaussage war also nur ein Zwischenschritt: Die KI hätte die vorhandenen Zitate schon vorher zur Entscheidung vorlegen können.
 
 ## B. Korrekturen an den Vorgaben (keine KI-Fehler)
 
